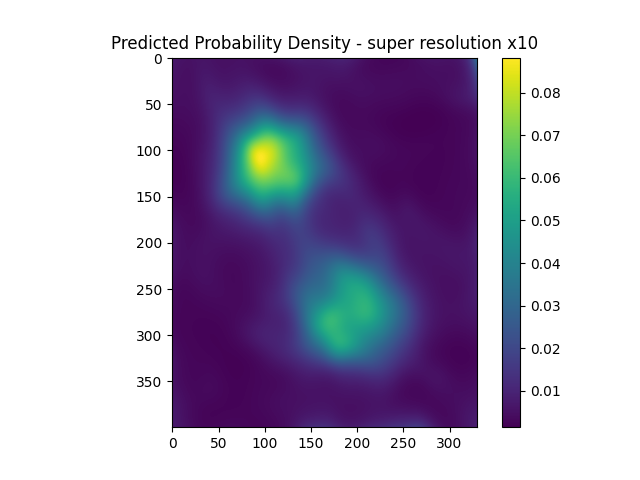
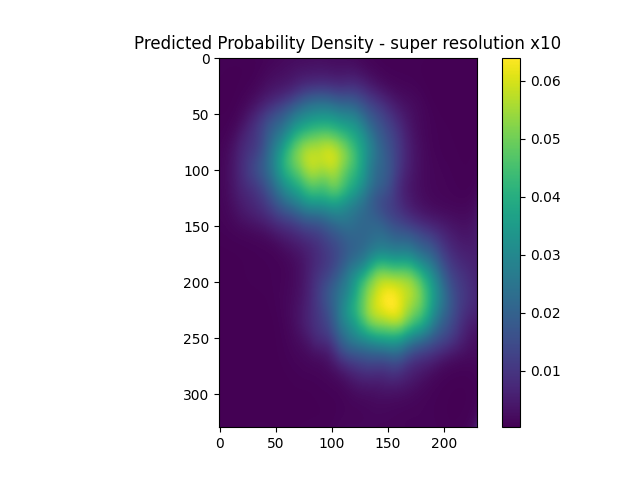
trained for more epochs. Working better now. Tried a few additional loss functions - didn't really work

diff --git a/prelim.py b/prelim.py
@@ -72,22 +72,56 @@ class ImageHoldoutDataset(ImageDataset):
 
         return self.norm_include_coords[i], self.step_area * self.include_vals[i]
 
+def pdf_auc_loss(siren, full_img_loader, step_area):
+    preds = None
+    for batch_in, batch_out in full_img_loader:
+        if preds == None:
+            preds = torch.sum(siren(batch_in))
+        else:
+            preds += torch.sum(siren(batch_in))
+    auc = (1 - torch.sum(preds) * step_area) ** 2
+    return auc
 
-def training_loop(siren, img_loader, epochs=10, lr=0.001):
-    objective = nn.MSELoss()
+
+def kl_divergence(pred, label):
+    eps = 1e-7
+    return torch.sum(pred * (torch.log(pred + eps) - torch.log(label + eps)))
+
+
+def training_loop(siren, img_loader, full_img_loader, step_area=0, epochs=10, lr=0.001):
+    # objective = nn.MSELoss()
+    objective1 = kl_divergence
+    objective2 = nn.MSELoss()
     optimizer = torch.optim.Adam(params=siren.parameters(), lr=lr)
     
     loss_history = []
     print('training')
+
+    num_iters1 = 3
+    num_iters2 = 3
+
+    b_count = 0
+    auc_interval = 1
     for e in tqdm(range(epochs)):
+        # while img_loader_iter.has:
         for batch_in, batch_out in img_loader:
+        # for b in range(len(img_loader)):
+        #     batch_in, batch_out = next(img_loader_iter)
+            b_count += 1
             pred = siren(batch_in)
-            loss = objective(pred, batch_out)
-            loss_e = objective(pred, batch_out)
+            # loss1 = objective1(pred, batch_out)
+            loss2 = objective2(pred, batch_out)
+            loss = loss2
             loss_history.append(loss.item())
             loss.backward()
             optimizer.step()
             optimizer.zero_grad()
+
+            # if b_count % auc_interval == 0:
+            #     auc_loss = pdf_auc_loss(siren, full_img_loader, step_area)
+            #     auc_loss.backward()
+            #     optimizer.step()
+            #     optimizer.zero_grad()
 
     return loss_history
 
@@ -114,11 +148,15 @@ def training_loop_holdout(siren, img_loader, holdout_loader, epochs=10, lr=0.001
 
     return loss_history
 
-def train_siren(siren, img, ranges=None, epochs=10, batch_size=16, lr=0.001, include_frac=1, holdout_frac=0, device='cpu'):
+def train_siren(siren, img, ranges=None, step_area=0, epochs=10, batch_size=16, lr=0.001, include_frac=1, holdout_frac=0, device='cpu'):
     
+    print(f'include_frac={include_frac}')
     img_dset = ImageDataset(img, include_frac=include_frac, device=device)
-    img_dset.plot()
     img_loader = DataLoader(img_dset, batch_size=batch_size, shuffle=True)
+    img_dset.plot()
+
+    full_img_dset = ImageDataset(img, include_frac=1, device=device)
+    full_img_loader = DataLoader(full_img_dset, batch_size=batch_size, shuffle=True)
 
     if holdout_frac > 0:
         holdout_dset = ImageHoldoutDataset(img, ranges, include_frac=holdout_frac, start_idx=len(img_dset), device=device)
@@ -126,7 +164,7 @@ def train_siren(siren, img, ranges=None, epochs=10, batch_size=16, lr=0.001, inc
         holdout_loader = DataLoader(holdout_dset, batch_size=batch_size, shuffle=True)
         loss_history = training_loop_holdout(siren, img_loader, holdout_loader, epochs=epochs, lr=lr)
     else:
-        loss_history = training_loop(siren, img_loader, epochs=epochs, lr=lr)
+        loss_history = training_loop(siren, img_loader, full_img_loader, step_area=step_area, epochs=epochs, lr=lr)
     
     
     plt.plot(np.arange(len(loss_history)), loss_history)
@@ -155,9 +193,8 @@ def density_map(data, mins, maxes, step_size, window_rad):
             count = 0
             for i in range(len(data)):
                 dist = np.sqrt(np.sum((data[i] - np.array([x, y])) ** 2))
-                if dist <= window_rad:
-                # if np.abs(x - data[i, 0]) < window_rad and np.abs(y - data[i, 1]) < window_rad:
-                    dmap[i_y, i_x] = dmap[i_y, i_x] + 1
+                # if dist <= window_rad:
+                if np.abs(x - data[i, 0]) < window_rad and np.abs(y - data[i, 1]) < window_rad:
                     dmap[i_y, i_x] = dmap[i_y, i_x] + 1
             i_y += 1
         i_x += 1
@@ -171,7 +208,7 @@ def prelim1():
     data = gen_gaussians(means, vars, num_points=500)
     mins = np.min(data, axis=0) # for example: xmin, ymin
     maxes = np.max(data, axis=0) # for example: xmax, ymax
-    ranges = np.max(maxes - mins, axis=0) # for example: xmax, ymax
+    ranges = np.max((maxes + 1) - (mins - 1), axis=0) # for example: xmax, ymax
     min_range = np.amin(ranges)
 
     print(data.shape)
@@ -185,6 +222,7 @@ def prelim1():
 
     min_steps = 40
     step_size = min_range / min_steps
+    print('step_size:', step_size)
 
     window_rads = [step_size * (i + 1) for i in range(2, 3, 1)]
     # min_steps = [5, 10, 20, 40]
@@ -192,9 +230,10 @@ def prelim1():
         density_map(data, mins, maxes, step_size, rad)
         for rad in window_rads
     ]
-    dmaps = [dmap / (np.sum(dmap) * (step_size ** 2)) for dmap in dmaps]
+    dmaps = [(dmap / (np.sum(dmap) * (step_size ** 2))) for rad, dmap in zip(window_rads, dmaps)]
     
     for i, (dmap, rad) in enumerate(zip(dmaps, window_rads)):
+        print(np.sum(dmap) * (step_size ** 2))
         # plt.subplot(len(dmaps), 1, i + 1)
         plt.imshow(dmap)
         plt.colorbar()
@@ -221,7 +260,7 @@ def prelim1():
 
     train_img = dmaps[0]
     # train_siren(siren, train_img, ranges=ranges, epochs=10, batch_size=16, include_frac=0.5, holdout_frac=0.5, device='cpu')
-    train_siren(siren, train_img, epochs=10, batch_size=16, include_frac=1, device='cpu')
+    train_siren(siren, train_img, step_area=(step_size ** 2), epochs=2000, batch_size=32, lr=5e-5, include_frac=0.25, device='cpu')
 
     with torch.no_grad():
         siren.eval()
@@ -245,6 +284,7 @@ def prelim1():
                 col_i += 1
             row_i += 1
         
+        print(np.sum(out_img) * ((step_size / superres_factor) ** 2))
         plt.imshow(out_img)
         plt.colorbar()
         plt.title(f'Predicted Probability Density - super resolution x{superres_factor}')

diff --git a/README.md b/README.md
@@ -2,14 +2,45 @@
 
 Small experiment to see if it's possible to learn the PDF of an arbitrary distribution given some samples from it.
 
+## Experiment 1 - Preliminary
+
 Below: a SIREN network learns the continuous PDF of two gaussians.
 
 - **Input:** A discrete PDF generated from the samples.
 
 - **Output:** A SIREN network that parameterizes the continuous PDF. To demonstrate this, I sampled the discrete PDF domain at 10x resolution, but there is no limit to how finely you can sample probabilities from the SIREN.
 
+Ideally, the volume under the predicted curve should be exactly 1.
+
 ![data sample](readme_assets/data.png)
 
 ![discrete pdf generated from samples](readme_assets/training_density_map.png)
 
 ![learned continuous pdf using siren](readme_assets/predicted_density_map.png)
+
+#### Predicted volume under curve ≈ 1.006
+
+<br>
+
+## Experiment 2 - Restricting Training Data
+
+How well does it perform if you only give it a subset of ground-truth probability densities?
+
+### Training on 50% of data
+
+![discrete pdf generated from samples](readme_assets/training_density_map_0.5.png)
+
+![learned continuous pdf using siren](readme_assets/predicted_density_map_0.5.png)
+
+#### Predicted volume under curve ≈ 1.01
+
+<br>
+
+### Training on 25% of data
+
+![discrete pdf generated from samples](readme_assets/training_density_map_0.25.png)
+
+![learned continuous pdf using siren](readme_assets/predicted_density_map_0.25.png)
+
+#### Predicted volume under curve ≈ 1.01
+
